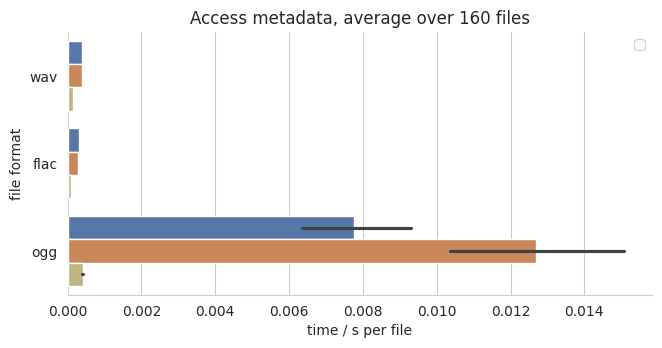
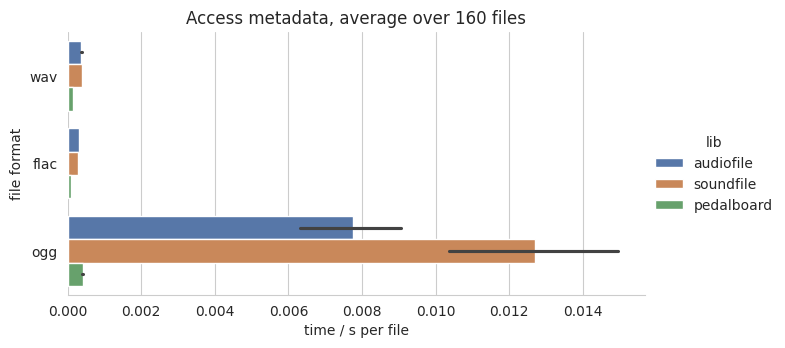
Update results

diff --git a/docs/benchmark/plot.py b/docs/benchmark/plot.py
@@ -104,10 +104,9 @@ for package in ['read', 'info']:
             data=y,
             height=height,
             aspect=aspect,
-            legend=False
+            legend=True,
         )
         g.despine(left=True)
-        plt.legend(loc='upper right')
         plt.xlabel('time / s per file')
         plt.ylabel('file format')
         if package == 'info':
